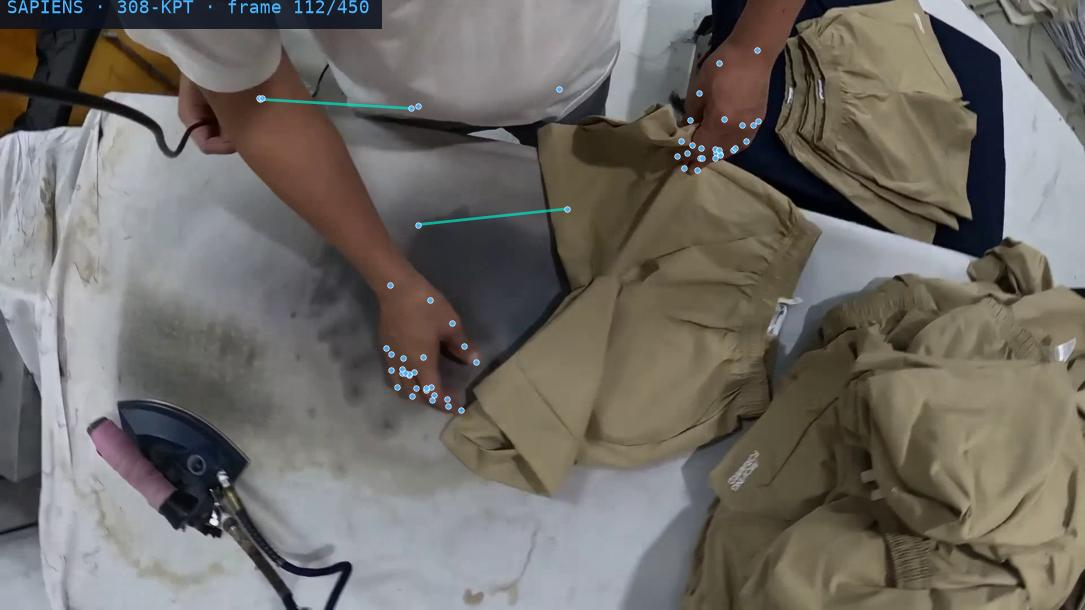
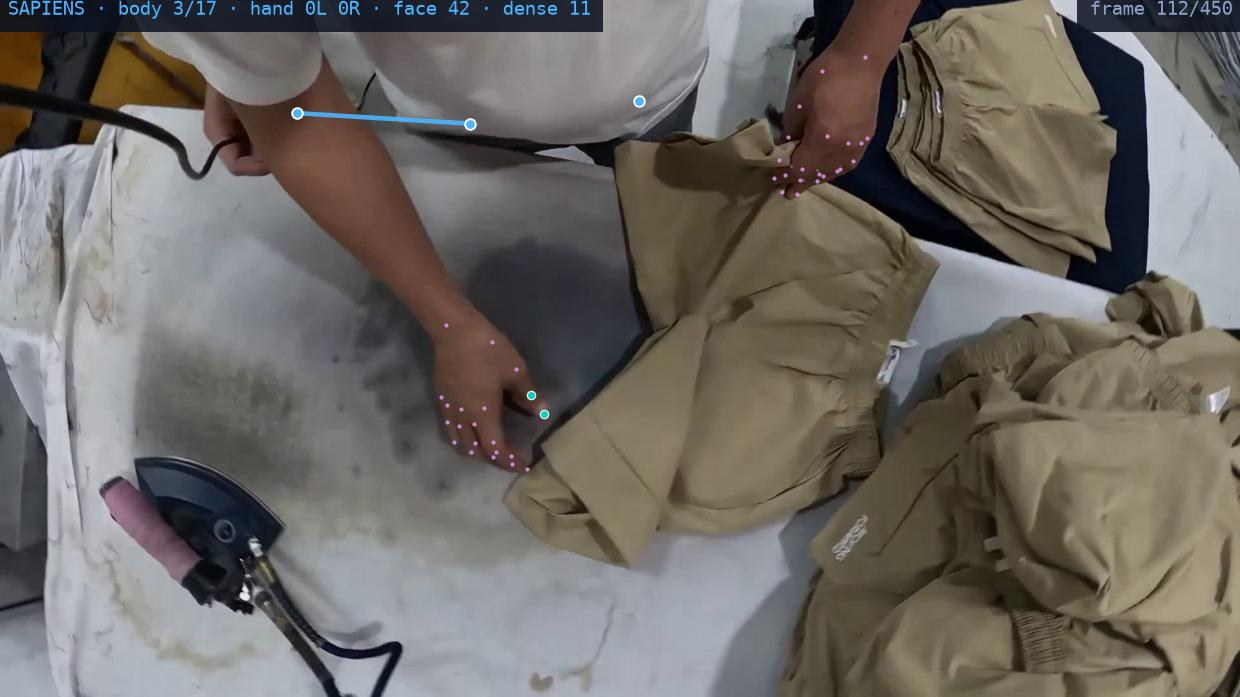
feat(v5): header nav to subpages · trim landing · sapiens overlay debug
Header nav:
- DATA_ITEMS extended with "Auto-Label pipeline" + "QC playbook" so both
  subpages are reachable from the top-nav "Data" dropdown.
- Dropdown min-width bumped to 320px to fit 4 entries with descriptions.
- Logo Image: added loading="eager" + fetchPriority="high" +
  style={{ width: "auto", height: 40 }}. Silences the aspect-ratio warning
  + LCP warning that fired on every page (~7-8 dev-tools issues repeats).

Landing trim (dropped 4 sections, kept 16):
- ModelStackCard  → moved to /auto-label (right after PipelineOverview)
- LerobotPreview  → moved to /auto-label (before HardRulesBridge)
- HowItWorks      → dropped from landing (repeated content)
- DescriptionMetadata → dropped from landing (already on /auto-label)
- Landing keeps the CapturesGallery + PipelineOverview + AutoLabelDeepDive
  teaser + QCFlow teaser + RerunEmbed + Catalog + HardwareShowcase +
  DataForWhatYouBuild + PublicDatasetWall + WhyTbrainSheet + ladder + CTA.
- Encourages readers to click through to /auto-label or /quality for depth.

Sapiens body-kpt overlay fixes (user reported "sai"):
- NaN kpts now filtered before scatter (was silently drawing garbage).
- Skeleton: switched from wrong COCO17 links across all 308 kpts to the
  correct semantic grouping — 17 COCO body links, 21-kpt MANO hand links
  (left + right), face + dense as dots only.
- Confidence threshold raised to 0.5 (Sapiens conf runs 0.05 → 2.5).
- Face + dense kpts gated behind body_count ≥ 3 — without a real body
[…]

diff --git a/src/app/data/physical-ai/auto-label/page.tsx b/src/app/data/physical-ai/auto-label/page.tsx
@@ -6,6 +6,8 @@ import Footer from "@/components/common/Footer";
 import { PipelineOverview } from "@/components/marketing/sections/foundry/PipelineOverview";
 import { DescriptionMetadata } from "@/components/marketing/sections/foundry/DescriptionMetadata";
 import { AutoLabelDeepDive } from "@/components/marketing/sections/foundry/AutoLabelDeepDive";
+import { ModelStackCard } from "@/components/marketing/sections/foundry/ModelStackCard";
+import { LerobotPreview } from "@/components/marketing/sections/foundry/LerobotPreview";
 import { RerunEmbed } from "@/components/marketing/sections/foundry/RerunEmbed";
 import { SubpageHero, Sheet, SheetHeading, StagePanel } from "@/components/marketing/blueprint/kit";
 import { PageNav } from "@/components/marketing/blueprint/PageNav";
@@ -29,13 +31,20 @@ export const revalidate = 86400;
 function StageBody() {
   const body = AUTO_LABEL_STAGES.find((s) => s.key === "body")!;
   return (
-    <StagePanel fig={body.fig} title={body.title} model={body.model} detail={body.detail} output={body.output}>
-      <div className="grid gap-3 sm:grid-cols-2 lg:grid-cols-4">
-        {(body.overlayImages ?? []).map((src) => (
-          <div key={src} className="overflow-hidden" style={{ borderRadius: 10, border: "1px solid var(--bp-line)" }}>
-            <img src={src} alt="Sapiens 308-kpt body overlay" style={{ width: "100%", display: "block" }} />
-          </div>
-        ))}
+    <StagePanel fig={body.fig} title={body.title} model={body.model} detail={body.detail} output={body.output} honestNote={body.honestNote}>
+      <div className="grid gap-3 lg:grid-cols-3">
+        {(body.overlayImages ?? []).map((src, i) => {
+          const label = ["t=25%", "t=50%", "t=75%"][i] ?? "";
+          return (
+            <div key={src} className="bp-card overflow-hidden" style={{ borderRadius: 10 }}>
+              <div className="bp-mono flex items-center justify-between" style={{ padding: "6px 12px", fontSize: 10, color: "var(--bp-ink-faint)", borderBottom: "1px solid var(--bp-line)" }}>
+                <span>pick_up_the_cup · {label}</span>
+                <span style={{ color: "var(--bp-cyan)" }}>Sapiens 308-kpt</span>
+              </div>
+              <img src={src} alt={`Sapiens body overlay at ${label}`} style={{ width: "100%", display: "block" }} />
+            </div>
+          );
+        })}
       </div>
     </StagePanel>
   );
@@ -175,12 +184,14 @@ export default function AutoLabelPage() {
       <PageNav
         items={[
           { id: "pipeline", label: "Pipeline overview" },
+          { id: "model-stack", label: "8-model stack" },
           { id: "description-metadata", label: "Description + metadata" },
           { id: "stage-hand", label: "Hand · MANO" },
           { id: "stage-body", label: "Body · Sapiens" },
           { id: "stage-masks", label: "Object masks" },
           { id: "stage-depth", label: "Depth · MoGe" },
           { id: "stage-rerun", label: "Rerun scene" },
+          { id: "lerobot-export", label: "LeRobot v2 export" },
           { id: "auto-label", label: "Deep dive tabs" },
         ]}
       />
@@ -199,6 +210,8 @@ export default function AutoLabelPage() {
         />
 
         <PipelineOverview highlight="auto-label" showAnchors={false} />
+
+        <ModelStackCard />
 
         <section id="stage-description">
           <DescriptionMetadata />
@@ -235,6 +248,8 @@ export default function AutoLabelPage() {
         </section>
 
         <RerunEmbed />
+
+        <LerobotPreview />
 
         <HardRulesBridge />
 

diff --git a/src/app/data/physical-ai/page.tsx b/src/app/data/physical-ai/page.tsx
@@ -9,18 +9,14 @@ import {
   WhyTbrainSheet,
   BeyondRobotics,
 } from "@/components/marketing/sections/foundry/Sheets";
-import { HowItWorks } from "@/components/marketing/sections/foundry/SystemShowcase";
 import { Catalog, EngagementLadder } from "@/components/marketing/sections/foundry/DeckSections";
 import { LiveTicker } from "@/components/marketing/sections/foundry/LiveTicker";
 import { HardwareShowcase } from "@/components/marketing/sections/foundry/HardwareShowcase";
-import { ModelStackCard } from "@/components/marketing/sections/foundry/ModelStackCard";
 import { CapturesGallery } from "@/components/marketing/sections/foundry/CapturesGallery";
 import { RerunEmbed } from "@/components/marketing/sections/foundry/RerunEmbed";
-import { LerobotPreview } from "@/components/marketing/sections/foundry/LerobotPreview";
 import { PublicDatasetWall } from "@/components/marketing/sections/foundry/PublicDatasetWall";
 import { PipelineOverview } from "@/components/marketing/sections/foundry/PipelineOverview";
 import { AutoLabelDeepDive } from "@/components/marketing/sections/foundry/AutoLabelDeepDive";
-import { DescriptionMetadata } from "@/components/marketing/sections/foundry/DescriptionMetadata";
 import { QCFlow } from "@/components/marketing/sections/foundry/QCFlow";
 import { ANCHOR_TRUST } from "@/lib/landing/physical-ai";
 
@@ -124,49 +120,37 @@ export default function PhysicalAIPage() {
         {/* 05 · Capture ledger — real episodes surface first */}
         <CapturesGallery />
 
-        {/* 06 · V5 · Auto-label deep dive — 4-tab per-stage */}
+        {/* 06 · V5 · Auto-label deep dive — 4-tab per-stage · full detail on /auto-label */}
         <AutoLabelDeepDive />
 
-        {/* 07 · V5 · Description + metadata — Qwen3-VL + schema_v3 */}
-        <DescriptionMetadata />
-
-        {/* 08 · V5 · QC flow — 15 hard rules + human review + delta */}
+        {/* 07 · V5 · QC flow — 15 hard rules teaser · full detail on /quality */}
         <QCFlow />
 
-        {/* 09 · Rerun episode viewer */}
+        {/* 08 · Rerun episode viewer */}
         <RerunEmbed />
 
-        {/* 10 · LeRobot v2 export preview */}
-        <LerobotPreview />
-
-        {/* 11 · Ten modalities · one export contract */}
+        {/* 09 · Ten modalities · one export contract */}
         <Catalog />
 
-        {/* 12 · Auto-label model stack — 8 models · one pipeline */}
-        <ModelStackCard />
-
-        {/* 13 · How it works — pipeline + operator app + fleet */}
-        <HowItWorks />
-
-        {/* 14 · Hardware pack + operator app concept */}
+        {/* 10 · Hardware pack + operator app concept */}
         <HardwareShowcase />
 
-        {/* 15 · Data for what you build (use cases) */}
+        {/* 11 · Data for what you build (use cases) */}
         <DataForWhatYouBuild />
 
-        {/* 16 · Public egocentric dataset wall */}
+        {/* 12 · Public egocentric dataset wall */}
         <PublicDatasetWall />
 
-        {/* 17 · Why Tbrain */}
+        {/* 13 · Why Tbrain */}
         <WhyTbrainSheet />
 
-        {/* 18 · Engagement ladder */}
+        {/* 14 · Engagement ladder */}
         <EngagementLadder />
 
-        {/* 19 · Beyond robotics footer band */}
+        {/* 15 · Beyond robotics footer band */}
         <BeyondRobotics />
 
-        {/* 20 · CTA */}
+        {/* 16 · CTA */}
         <FoundryCTA />
       </main>
       <Footer />

diff --git a/src/components/common/Header.tsx b/src/components/common/Header.tsx
@@ -9,8 +9,10 @@ import { Menu, X, ChevronDown } from "lucide-react";
 import { ThemeToggle } from "@/components/theme/ThemeToggle";
 
 const DATA_ITEMS = [
-  { label: "Terminal Bench", href: "/data/terminal-bench", description: "AI Agent Evaluation" },
-  { label: "Physical AI", href: "/data/physical-ai", description: "Robot Training Data" },
+  { label: "Terminal Bench", href: "/data/terminal-bench", description: "AI agent evaluation benchmark" },
+  { label: "Physical AI · overview", href: "/data/physical-ai", description: "Robotics data foundry · full landing" },
+  { label: "Auto-Label pipeline", href: "/data/physical-ai/auto-label", description: "8 models · one contract · per-stage deep dive" },
+  { label: "QC playbook", href: "/data/physical-ai/quality", description: "15 hard rules + 3 human review layers" },
 ];
 
 const NAV_ITEMS = [
@@ -126,8 +128,10 @@ const Header = () => {
               height={40}
               alt="Tbrain"
               priority
+              loading="eager"
+              fetchPriority="high"
               className="object-contain"
-              style={{ filter: tokens.logoFilter }}
+              style={{ width: "auto", height: 40, filter: tokens.logoFilter }}
             />
           </Link>
 
@@ -147,7 +151,7 @@ const Header = () => {
                   </button>
                   {dataOpen && (
                     <div
-                      className={`absolute left-1/2 top-full mt-2 min-w-[240px] -translate-x-1/2 rounded-xl p-2 ${tokens.dropdown}`}
+                      className={`absolute left-1/2 top-full mt-2 min-w-[320px] -translate-x-1/2 rounded-xl p-2 ${tokens.dropdown}`}
                     >
                       {DATA_ITEMS.map((d) => (
                         <Link

diff --git a/src/lib/landing/physical-ai-qc.ts b/src/lib/landing/physical-ai-qc.ts
@@ -109,14 +109,14 @@ export const AUTO_LABEL_STAGES: StageCard[] = [
     fig: "FIG.05D — KEYPOINTS · BODY",
     title: "Body · 308-kpt Sapiens dense",
     model: "sapiens · 308-kpt dense",
-    detail: "Whole-body dense keypoint regression. Skeleton + face + hand landmarks in one pass. Feeds retargeting to humanoid and dexterous robot topologies.",
-    output: "body_dense · kpts (N × 308 × 3) · conf",
+    detail: "Whole-body dense keypoint regression: 17 COCO body joints + 6 feet + 68 face + 21+21 hand + 175 dense mesh points. Feeds retargeting to humanoid and dexterous robot topologies. Runs only where the body is in-frame; tight ego-view captures fall back to MANO hand kpts.",
+    output: "body_dense · kpts (N × 308 × 2) · conf",
     overlayImages: [
+      "/images/body-kpts/pick_up_the_cup_t25.jpg",
       "/images/body-kpts/pick_up_the_cup_t50.jpg",
-      "/images/body-kpts/iron_product_t50.jpg",
-      "/images/body-kpts/sew_hem_t50.jpg",
-      "/images/body-kpts/arrange_fabric_t50.jpg",
+      "/images/body-kpts/pick_up_the_cup_t75.jpg",
     ],
+    honestNote: "On tight ego-view captures where only hands + workspace enter the frame (textile factory shots), Sapiens body detection returns zero body kpts — we honor that and fall back to the 21-kpt HaWoR hand tracker for those episodes.",
   },
   {
     key: "masks",
